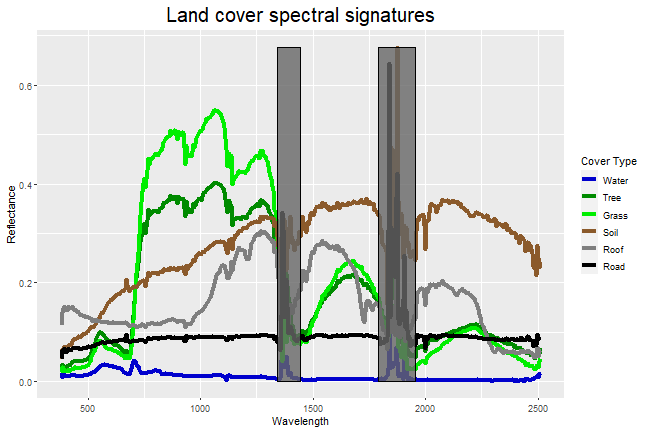
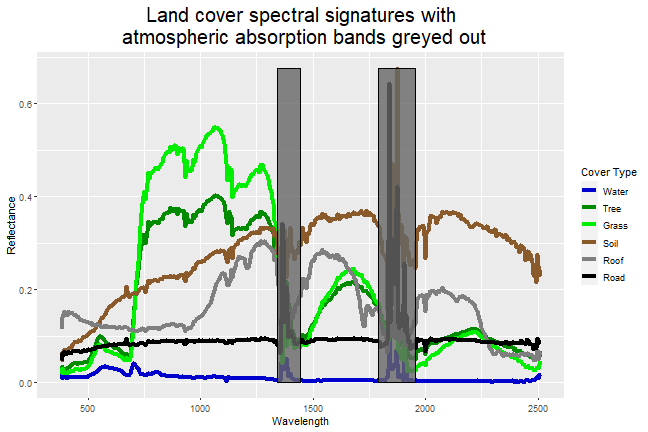
fix formatting issue with one of the R chunks

diff --git a/tutorials/R/AOP/Hyperspectral/Select-Pixels-Compare-Spectral-Signatures/Select-Pixels-Compare-Spectral-Signatures.html b/tutorials/R/AOP/Hyperspectral/Select-Pixels-Compare-Spectral-Signatures/Select-Pixels-Compare-Spectral-Signatures.html
@@ -204,7 +204,7 @@ plotRGB(rgbStack,
 <div id="ds-dataTip" markdown="1">
 <p><i class="fa fa-star"></i> <strong>Data Tip:</strong> Note from the <code>terra::click</code> Description (which you can read by typing <code>help(&quot;click&quot;)</code>: <code>click</code> “does not work well on the default RStudio plotting device. To work around that, you can first run <code>dev.new(noRStudioGD = TRUE)</code> which will create a separate window for plotting, then use <code>plot()</code> followed by <code>click()</code> and click on the map.”</p>
 </div>
-<p>For this next part, if you are following along in RStudio, you will need to enter these line below directly in the Console. <code>dev.new(noRStudioGD = TRUE)</code> will open up a separate window for plotting, where you will also run the <code>click</code> command.</p>
+<p>For this next part, if you are following along in RStudio, you will need to enter these line below directly in the Console. <code>dev.new(noRStudioGD = TRUE)</code> will open up a separate window for plotting, which is where you will click the pixels to extract spectra, using the <code>terra::click</code> functionality.</p>
 <pre><code>dev.new(noRStudioGD = TRUE)
 </code></pre>
 <p>Now we can create our RGB plot, and start clicking on this in the pop-out Graphics window.</p>
@@ -222,9 +222,9 @@ plotRGB(rgbStack, r=1, g=2, b=3, scale=300, stretch = &quot;hist&quot;)
 
 # use the 'click' function
 
-c &lt;- click(rgbStack, n = 7, id=TRUE, xy=TRUE, cell=TRUE, type=&quot;p&quot;, pch=16, col=&quot;red&quot;, col.lab=&quot;red&quot;)
+c &lt;- click(rgbStack, n = 6, id=TRUE, xy=TRUE, cell=TRUE, type=&quot;p&quot;, pch=16, col=&quot;red&quot;, col.lab=&quot;red&quot;)
 </code></pre>
-<p>Once you have clicked your six points, the graphics window should close. If you want to choose new points, or if you accidentally clicked something you didn’t want to in the step, run the previous chunk of code again to start over.</p>
+<p>Once you have clicked your six points, the graphics window should close. If you want to choose new points, or if you accidentally clicked a point that you didn’t intend to, run the previous 2 chunks of code again to re-start.</p>
 <p>The <code>click()</code> function identifies the cell number that you clicked, but in order to extract spectral signatures, we need to convert that cell number into a row and column, as shown here:</p>
 <pre><code># convert raster cell number into row and column (used to extract spectral signature below)
 
@@ -237,8 +237,6 @@ c$col &lt;- c$cell%%ncol(rgbStack)
 <pre><code># create a new dataframe from the band wavelengths so that we can add the reflectance values for each cover type
 
 pixel_df &lt;- as.data.frame(wavelengths)
-
-
 
 # loop through each of the cells that we selected
 
@@ -262,37 +260,21 @@ pixel_df &lt;- cbind(pixel_df,b[2])
 </code></pre>
 <h2 id="plot-spectral-signatures-using-ggplot2">Plot Spectral signatures using ggplot2</h2>
 <p>Finally, we have everything that we need to plot the spectral signatures for each of the pixels that we clicked. In order to color our lines by the different land cover types, we will first reshape our data using the <code>melt()</code> function, then plot the spectral signatures.</p>
-<ol>
-<li>
-<p>Water</p>
-</li>
-<li>
-<p>Tree canopy (avoid the shaded northwestern side of the tree)</p>
-</li>
-<li>
-<p>Irrigated grass</p>
-</li>
-<li>
-<p>Bare soil (baseball diamond infield)</p>
-</li>
-<li>
-<p>Building roof (blue)</p>
-</li>
-<li>
-<p>Road</p>
-<h1 id="use-the-melt-function-to-reshape-the-dataframe-into-a-format-that-ggplot-prefers">Use the melt() function to reshape the dataframe into a format that ggplot prefers</h1>
-<p>pixel.melt &lt;- reshape2::melt(pixel_df, id.vars = “wavelengths”, value.name = “Reflectance”)</p>
-<h1 id="now-let-s-plot-some-spectral-signatures">Now, let’s plot some spectral signatures!</h1>
-<p>ggplot()+
-geom_line(data = pixel.melt, mapping = aes(x=wavelengths, y=Reflectance, color=variable), lwd=1.5)+
-scale_colour_manual(values = c(“blue3”,“green4”,“green2”,“tan4”,“grey50”,“black”),
-labels = c(“Water”,“Tree”,“Grass”,“Soil”,“Roof”,“Road”))+
-labs(color = “Cover Type”)+
-ggtitle(“Land cover spectral signatures”)+
-theme(plot.title = element_text(hjust = 0.5, size=20))+
-xlab(“Wavelength”)</p>
-</li>
-</ol>
+<pre><code># Use the melt() function to reshape the dataframe into a format that ggplot prefers
+
+pixel.melt &lt;- reshape2::melt(pixel_df, id.vars = &quot;wavelengths&quot;, value.name = &quot;Reflectance&quot;)
+
+# Now, let's plot the spectral signatures!
+
+ggplot()+
+  geom_line(data = pixel.melt, mapping = aes(x=wavelengths, y=Reflectance, color=variable), lwd=1.5)+
+  scale_colour_manual(values = c(&quot;blue3&quot;,&quot;green4&quot;,&quot;green2&quot;,&quot;tan4&quot;,&quot;grey50&quot;,&quot;black&quot;),
+                      labels = c(&quot;Water&quot;,&quot;Tree&quot;,&quot;Grass&quot;,&quot;Soil&quot;,&quot;Roof&quot;,&quot;Road&quot;))+
+  labs(color = &quot;Cover Type&quot;)+
+  ggtitle(&quot;Land cover spectral signatures&quot;)+
+  theme(plot.title = element_text(hjust = 0.5, size=20))+
+  xlab(&quot;Wavelength&quot;)
+</code></pre>
 <p><img src="https://raw.githubusercontent.com/NEONScience/NEON-Data-Skills/main/tutorials/R/AOP/Hyperspectral/Select-Pixels-Compare-Spectral-Signatures/rfigs/plot-spectral-signatures-1.png" alt="Plot of spectral signatures for the six different land cover types: Water, Tree, Grass, Soil, Roof, and Road. The x-axis is wavelength in nanometers and the y-axis is reflectance." /></p>
 <p>Nice! However, there seems to be something weird going on in the wavelengths near ~1400nm and ~1850 nm…</p>
 <h2 id="atmospheric-absorption-bands">Atmospheric Absorption Bands</h2>
@@ -301,15 +283,11 @@ xlab(“Wavelength”)</p>
 
 reflMetadata &lt;- h5readAttributes(h5_file,&quot;/SJER/Reflectance&quot; )
 
-
-
 ab1 &lt;- reflMetadata$Band_Window_1_Nanometers
 
 ab2 &lt;- reflMetadata$Band_Window_2_Nanometers
 
-
-
-# Plot spectral signatures again with rectangles showing the absorption bands
+# Plot spectral signatures again with grey rectangles highlighting the absorption bands
 
 ggplot()+
   geom_line(data = pixel.melt, mapping = aes(x=wavelengths, y=Reflectance, color=variable), lwd=1.5)+
@@ -318,17 +296,15 @@ ggplot()+
   scale_colour_manual(values = c(&quot;blue3&quot;,&quot;green4&quot;,&quot;green2&quot;,&quot;tan4&quot;,&quot;grey50&quot;,&quot;black&quot;),
                       labels = c(&quot;Water&quot;,&quot;Tree&quot;,&quot;Grass&quot;,&quot;Soil&quot;,&quot;Roof&quot;,&quot;Road&quot;))+
   labs(color = &quot;Cover Type&quot;)+
-  ggtitle(&quot;Land cover spectral signatures&quot;)+
+  ggtitle(&quot;Land cover spectral signatures with\n atmospheric absorption bands greyed out&quot;)+
   theme(plot.title = element_text(hjust = 0.5, size=20))+
   xlab(&quot;Wavelength&quot;)
 </code></pre>
-<p><img src="https://raw.githubusercontent.com/NEONScience/NEON-Data-Skills/main/tutorials/R/AOP/Hyperspectral/Select-Pixels-Compare-Spectral-Signatures/rfigs/mask-atmospheric-absorption-bands-1.png" alt="Plot of spectral signatures for the six different land cover types: Water, Tree, Grass, Soil, Roof, and Road. Added to the plot are two greyed-out rectangles in regions near 1400nm and 1850nm where the reflectance measurements are obscured by atmospheric absorption. The x-axis is wavelength in nanometers and the y-axis is reflectance." /></p>
+<p><img src="https://raw.githubusercontent.com/NEONScience/NEON-Data-Skills/main/tutorials/R/AOP/Hyperspectral/Select-Pixels-Compare-Spectral-Signatures/rfigs/mask-atmospheric-absorption-bands-1.png" alt="Plot of spectral signatures for the six different land cover types: Water, Tree, Grass, Soil, Roof, and Road. This plot includes two greyed-out rectangles in regions near 1400nm and 1850nm where the reflectance measurements are obscured by atmospheric absorption. The x-axis is wavelength in nanometers and the y-axis is reflectance." /></p>
 <p>Now we can clearly see that the noisy sections of each spectral signature are within the atmospheric absorption bands. For our final step, let’s take all reflectance values from within each absorption band and set them to <code>NA</code> to remove the noisiest sections from the plot.</p>
 <pre><code># Duplicate the spectral signatures into a new data.frame
 
 pixel.melt.masked &lt;- pixel.melt
-
-
 
 # Mask out all values within each of the two atmospheric absorption bands
 
@@ -345,12 +321,12 @@ ggplot()+
   scale_colour_manual(values = c(&quot;blue3&quot;,&quot;green4&quot;,&quot;green2&quot;,&quot;tan4&quot;,&quot;grey50&quot;,&quot;black&quot;),
                       labels = c(&quot;Water&quot;,&quot;Tree&quot;,&quot;Grass&quot;,&quot;Soil&quot;,&quot;Roof&quot;,&quot;Road&quot;))+
   labs(color = &quot;Cover Type&quot;)+
-  ggtitle(&quot;Land cover spectral signatures&quot;)+
+  ggtitle(&quot;Land cover spectral signatures with\n atmospheric absorption bands removed&quot;)+
   theme(plot.title = element_text(hjust = 0.5, size=20))+
   xlab(&quot;Wavelength&quot;)
 </code></pre>
-<p><img src="https://raw.githubusercontent.com/NEONScience/NEON-Data-Skills/main/tutorials/R/AOP/Hyperspectral/Select-Pixels-Compare-Spectral-Signatures/rfigs/remove-absorption-band-reflectances-1.png" alt="Plot of spectral signatures for the six different land cover types. Values falling within the two rectangles from the previous image have been set to NA and ommited from the plot. The x-axis is wavelength in nanometers and the y-axis is reflectance." /></p>
-<p>There you have it, spectral signatures for six different land cover types, with the readings from the atmospheric absorption bands removed.</p>
+<p><img src="https://raw.githubusercontent.com/NEONScience/NEON-Data-Skills/main/tutorials/R/AOP/Hyperspectral/Select-Pixels-Compare-Spectral-Signatures/rfigs/remove-absorption-band-reflectances-1.png" alt="Plot of spectral signatures for the six different land cover types. Values falling within the atmospheric absorption bands have been set to NA and ommited from the plot. The x-axis is wavelength in nanometers and the y-axis is reflectance." /></p>
+<p>There you have it, spectral signatures for six different land cover types, with the regions from the atmospheric absorption bands removed.</p>
 <div id="ds-challenge" markdown="1">
 <h3 id="challenge-compare-spectral-signatures">Challenge: Compare Spectral Signatures</h3>
 <p>There are many interesting comparisons to make with spectral signatures.

diff --git a/tutorials/R/AOP/Hyperspectral/Select-Pixels-Compare-Spectral-Signatures/Select-Pixels-Compare-Spectral-Signatures.md b/tutorials/R/AOP/Hyperspectral/Select-Pixels-Compare-Spectral-Signatures/Select-Pixels-Compare-Spectral-Signatures.md
@@ -173,7 +173,7 @@ As shown here:
 </div>
 
 
-For this next part, if you are following along in RStudio, you will need to enter these line below directly in the Console. `dev.new(noRStudioGD = TRUE)` will open up a separate window for plotting, where you will also run the `click` command.
+For this next part, if you are following along in RStudio, you will need to enter these line below directly in the Console. `dev.new(noRStudioGD = TRUE)` will open up a separate window for plotting, which is where you will click the pixels to extract spectra, using the `terra::click` functionality.
 
 
     dev.new(noRStudioGD = TRUE)
@@ -195,9 +195,9 @@ Now we can create our RGB plot, and start clicking on this in the pop-out Graphi
 
     # use the 'click' function
 
-    c <- click(rgbStack, n = 7, id=TRUE, xy=TRUE, cell=TRUE, type="p", pch=16, col="red", col.lab="red")
+    c <- click(rgbStack, n = 6, id=TRUE, xy=TRUE, cell=TRUE, type="p", pch=16, col="red", col.lab="red")
 
-Once you have clicked your six points, the graphics window should close. If you want to choose new points, or if you accidentally clicked something you didn't want to in the step, run the previous chunk of code again to start over.
+Once you have clicked your six points, the graphics window should close. If you want to choose new points, or if you accidentally clicked a point that you didn't intend to, run the previous 2 chunks of code again to re-start.
 
 
 
@@ -217,8 +217,6 @@ Next, we will loop through each of the cells that and use the `h5read()` functio
     # create a new dataframe from the band wavelengths so that we can add the reflectance values for each cover type
 
     pixel_df <- as.data.frame(wavelengths)
-
-    
 
     # loop through each of the cells that we selected
 
@@ -243,21 +241,12 @@ Next, we will loop through each of the cells that and use the `h5read()` functio
 ## Plot Spectral signatures using ggplot2
 Finally, we have everything that we need to plot the spectral signatures for each of the pixels that we clicked. In order to color our lines by the different land cover types, we will first reshape our data using the `melt()` function, then plot the spectral signatures.
 
-1. Water
-2. Tree canopy (avoid the shaded northwestern side of the tree)
-3. Irrigated grass
-4. Bare soil (baseball diamond infield)
-5. Building roof (blue)
-6. Road
-
 
     # Use the melt() function to reshape the dataframe into a format that ggplot prefers
 
     pixel.melt <- reshape2::melt(pixel_df, id.vars = "wavelengths", value.name = "Reflectance")
 
-    
-
-    # Now, let's plot some spectral signatures!
+    # Now, let's plot the spectral signatures!
 
     ggplot()+
       geom_line(data = pixel.melt, mapping = aes(x=wavelengths, y=Reflectance, color=variable), lwd=1.5)+
@@ -280,15 +269,11 @@ Those irregularities around 1400nm and 1850 nm are two major atmospheric absorpt
 
     reflMetadata <- h5readAttributes(h5_file,"/SJER/Reflectance" )
 
-    
-
     ab1 <- reflMetadata$Band_Window_1_Nanometers
 
     ab2 <- reflMetadata$Band_Window_2_Nanometers
 
-    
-
-    # Plot spectral signatures again with rectangles showing the absorption bands
+    # Plot spectral signatures again with grey rectangles highlighting the absorption bands
 
     ggplot()+
       geom_line(data = pixel.melt, mapping = aes(x=wavelengths, y=Reflectance, color=variable), lwd=1.5)+
@@ -297,11 +282,11 @@ Those irregularities around 1400nm and 1850 nm are two major atmospheric absorpt
       scale_colour_manual(values = c("blue3","green4","green2","tan4","grey50","black"),
                           labels = c("Water","Tree","Grass","Soil","Roof","Road"))+
       labs(color = "Cover Type")+
-      ggtitle("Land cover spectral signatures")+
+      ggtitle("Land cover spectral signatures with\n atmospheric absorption bands greyed out")+
       theme(plot.title = element_text(hjust = 0.5, size=20))+
       xlab("Wavelength")
 
-![Plot of spectral signatures for the six different land cover types: Water, Tree, Grass, Soil, Roof, and Road. Added to the plot are two greyed-out rectangles in regions near 1400nm and 1850nm where the reflectance measurements are obscured by atmospheric absorption. The x-axis is wavelength in nanometers and the y-axis is reflectance.](https://raw.githubusercontent.com/NEONScience/NEON-Data-Skills/main/tutorials/R/AOP/Hyperspectral/Select-Pixels-Compare-Spectral-Signatures/rfigs/mask-atmospheric-absorption-bands-1.png)
+![Plot of spectral signatures for the six different land cover types: Water, Tree, Grass, Soil, Roof, and Road. This plot includes two greyed-out rectangles in regions near 1400nm and 1850nm where the reflectance measurements are obscured by atmospheric absorption. The x-axis is wavelength in nanometers and the y-axis is reflectance.](https://raw.githubusercontent.com/NEONScience/NEON-Data-Skills/main/tutorials/R/AOP/Hyperspectral/Select-Pixels-Compare-Spectral-Signatures/rfigs/mask-atmospheric-absorption-bands-1.png)
 
 Now we can clearly see that the noisy sections of each spectral signature are within the atmospheric absorption bands. For our final step, let's take all reflectance values from within each absorption band and set them to `NA` to remove the noisiest sections from the plot.
 
@@ -309,8 +294,6 @@ Now we can clearly see that the noisy sections of each spectral signature are wi
     # Duplicate the spectral signatures into a new data.frame
 
     pixel.melt.masked <- pixel.melt
-
-    
 
     # Mask out all values within each of the two atmospheric absorption bands
 
@@ -327,13 +310,13 @@ Now we can clearly see that the noisy sections of each spectral signature are wi
       scale_colour_manual(values = c("blue3","green4","green2","tan4","grey50","black"),
                           labels = c("Water","Tree","Grass","Soil","Roof","Road"))+
       labs(color = "Cover Type")+
-      ggtitle("Land cover spectral signatures")+
+      ggtitle("Land cover spectral signatures with\n atmospheric absorption bands removed")+
       theme(plot.title = element_text(hjust = 0.5, size=20))+
       xlab("Wavelength")
 
-![Plot of spectral signatures for the six different land cover types. Values falling within the two rectangles from the previous image have been set to NA and ommited from the plot. The x-axis is wavelength in nanometers and the y-axis is reflectance.](https://raw.githubusercontent.com/NEONScience/NEON-Data-Skills/main/tutorials/R/AOP/Hyperspectral/Select-Pixels-Compare-Spectral-Signatures/rfigs/remove-absorption-band-reflectances-1.png)
+![Plot of spectral signatures for the six different land cover types. Values falling within the atmospheric absorption bands have been set to NA and ommited from the plot. The x-axis is wavelength in nanometers and the y-axis is reflectance.](https://raw.githubusercontent.com/NEONScience/NEON-Data-Skills/main/tutorials/R/AOP/Hyperspectral/Select-Pixels-Compare-Spectral-Signatures/rfigs/remove-absorption-band-reflectances-1.png)
 
-There you have it, spectral signatures for six different land cover types, with the readings from the atmospheric absorption bands removed.
+There you have it, spectral signatures for six different land cover types, with the regions from the atmospheric absorption bands removed.
 
 <div id="ds-challenge" markdown="1">
 
